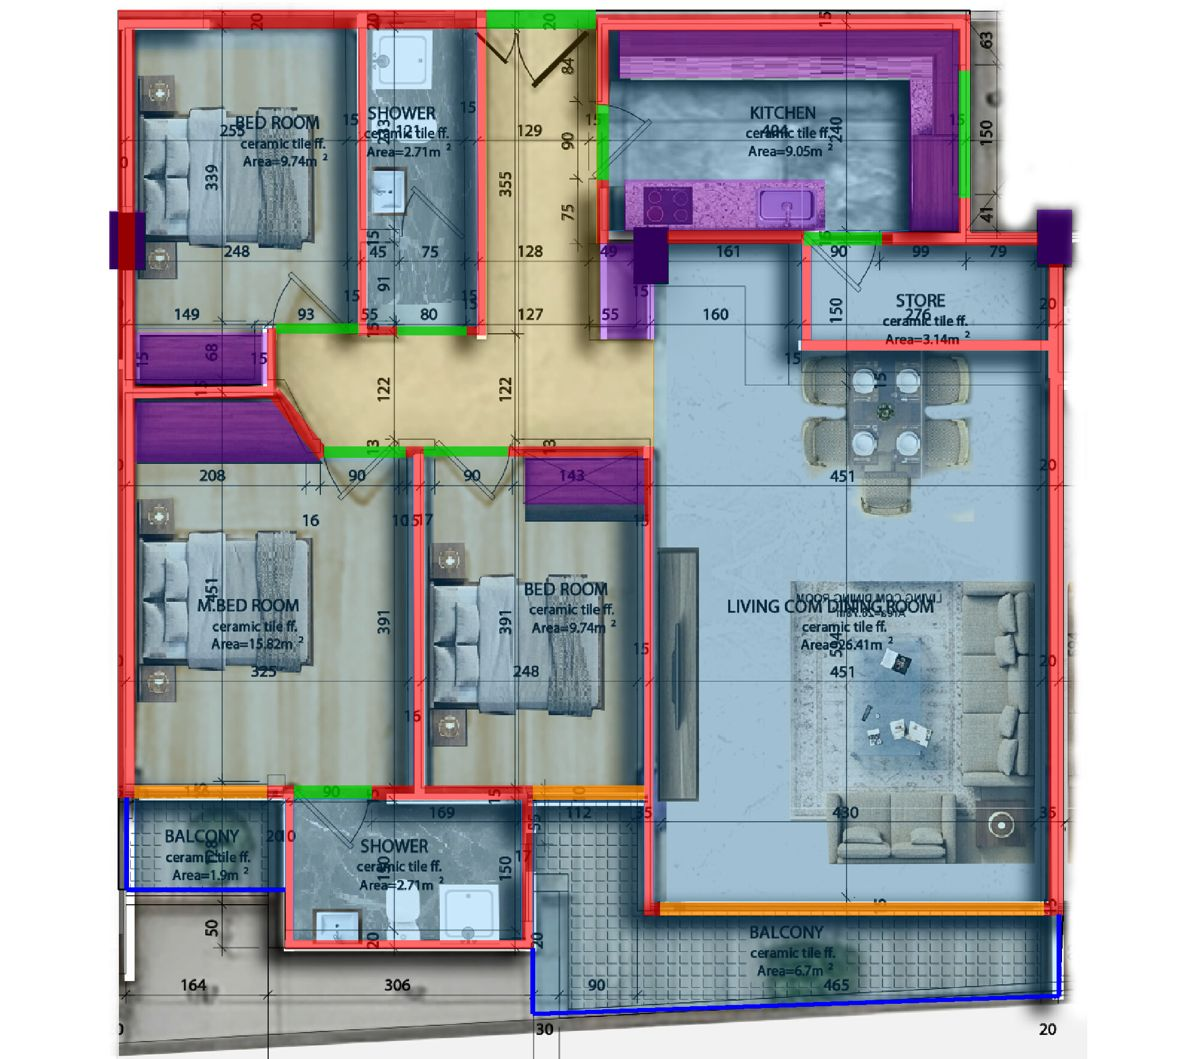
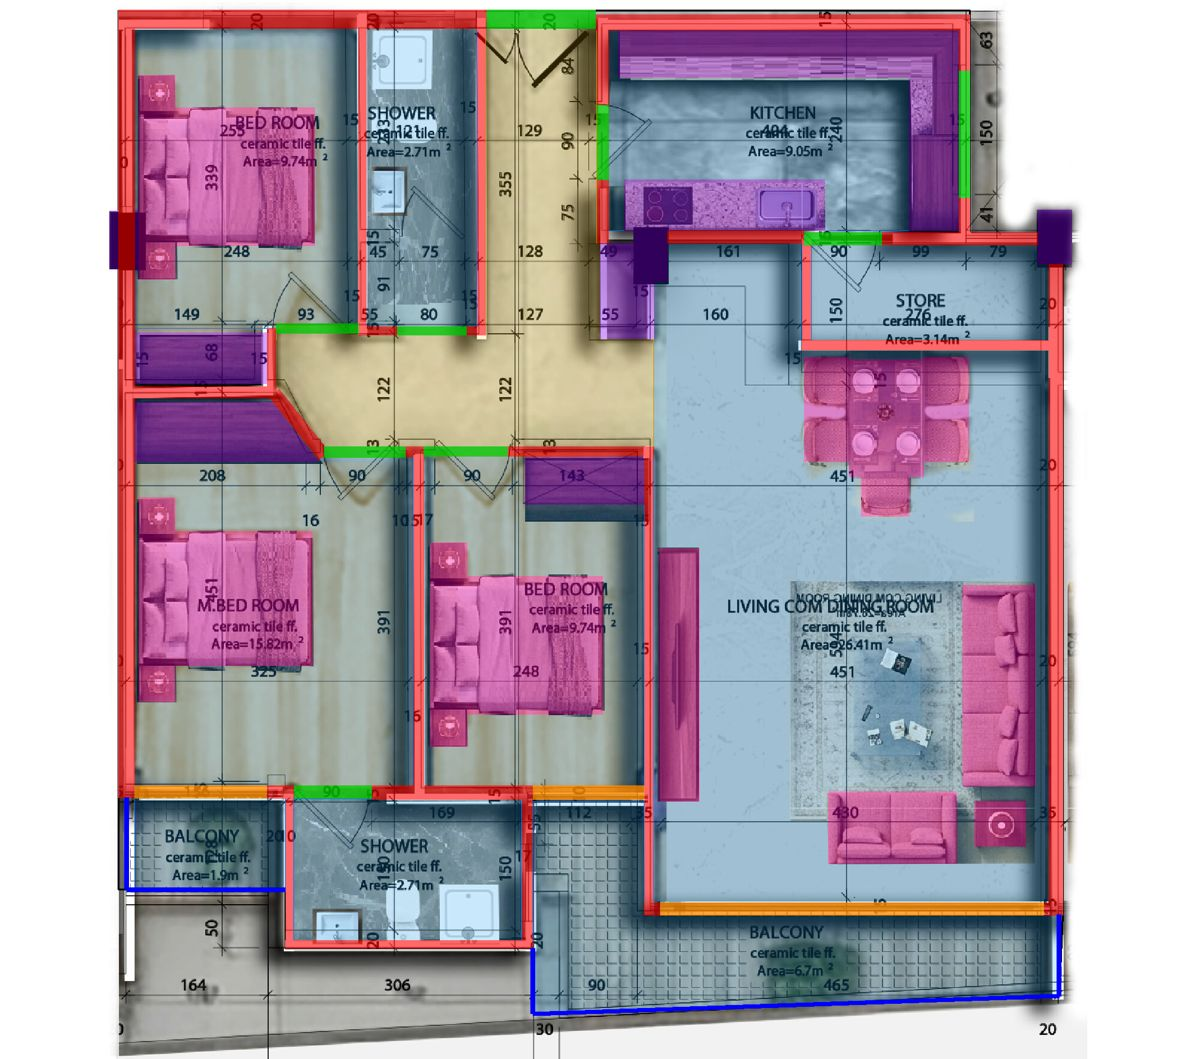
Bring the BL05 dollhouse closer to the reference (DESIGN rev 8.1)
- Design review found it read small, dark and flat next to the client's reference video
- Cut walls at 2.4 m, add a camera fill light and fit the model to the frame
- Trace 18 furniture blocks from the plan so rooms have volume
- Float all room hotspots above the walls and keep the panel actions visible

diff --git a/docs/design/units/trace-bl05.py b/docs/design/units/trace-bl05.py
@@ -90,6 +90,17 @@ solids=[
  {'id':'k-right','kind':'counter','poly':[m(1515,130),m(1598,130),m(1598,385),m(1515,385)],'h':0.9},
  {'id':'k-island','kind':'counter','poly':[m(1040,300),m(1375,300),m(1375,385),m(1040,385)],'h':0.9},
 ]
+# rev 8.1: furniture as low extrusions. The top face reuses the floor texture (planar UV), so the plan's own
+# furniture artwork becomes the top of each block; sides take `side`. Footprints follow the plan drawing.
+def F(id,r,h,side):
+    x0,y0,x1,y1=r; solids.append({'id':id,'kind':'furniture','poly':[m(x0,y0),m(x1,y0),m(x1,y1),m(x0,y1)],'h':h,'side':side})
+F('f-bed1',(232,180,525,410),0.5,'#E8E1D6'); F('f-bed1-ns1',(232,125,292,190),0.55,'#6E4E33'); F('f-bed1-ns2',(232,400,292,465),0.55,'#6E4E33')
+F('f-mbed',(232,885,520,1110),0.5,'#E8E1D6'); F('f-mbed-ns1',(232,830,292,890),0.55,'#6E4E33'); F('f-mbed-ns2',(232,1105,292,1170),0.55,'#6E4E33')
+F('f-bed2',(718,960,1005,1190),0.5,'#E8E1D6'); F('f-bed2-ns1',(718,905,778,965),0.55,'#6E4E33'); F('f-bed2-ns2',(718,1185,778,1245),0.55,'#6E4E33')
+F('f-dining',(1415,600,1540,795),0.75,'#4A3A2C'); F('f-chairs-w',(1340,595,1415,770),0.45,'#B79B74'); F('f-chairs-e',(1540,595,1615,770),0.45,'#B79B74'); F('f-chair-s',(1435,785,1515,860),0.45,'#B79B74')
+F('f-sofa-e',(1605,975,1725,1310),0.8,'#CFC3B1'); F('f-sofa-s',(1380,1320,1595,1440),0.8,'#CFC3B1')
+F('f-tv',(1098,915,1165,1335),0.5,'#5C4636'); F('f-side',(1625,1335,1710,1410),0.55,'#5C4636')
+
 def R(id,name,area,poly,label_px):
     return {'id':id,'name':name,'area':area,'poly':[m(*p) for p in poly],'label':m(*label_px)}
 rooms=[
@@ -115,7 +126,7 @@ data={
  'texture':{'src':'bl05-floor','cropPx':list(crop),
             'plane':{'minX':m(crop[0],crop[1])[0],'minZ':m(crop[0],crop[1])[1],'maxX':m(crop[2],crop[3])[0],'maxZ':m(crop[2],crop[3])[1]},
             'note':'UV = ((x-minX)/(maxX-minX), 1-(z-minZ)/(maxZ-minZ)); the texture is the crop resized to 1024 px wide'},
- 'defaults':{'wallH':2.8,'cutawayH':1.0,'doorHead':2.1,'note':'Heights are not on the plans: 2.8 m storey wall, 2.1 m door head, sills as listed. Illustrative.'},
+ 'defaults':{'wallH':2.8,'modelCutH':2.4,'cutawayH':1.0,'doorHead':2.1,'note':'Heights are not on the plans: 2.8 m storey wall, 2.1 m door head, sills as listed. Illustrative.'},
  'footprint':footprint,'walls':walls,'openings':openings,'railings':railings,'solids':solids,'rooms':rooms,'hall':hall,
 }
 s=json.dumps(data,separators=(',',':'),ensure_ascii=False)
@@ -128,7 +139,7 @@ P=lambda p:(p[0]*SX+OX,p[1]*SY+OY)
 for r in rooms: d.polygon([P(p) for p in r['poly']],fill=(0,160,255,50),outline=(0,120,255,255))
 d.polygon([P(p) for p in hall['poly']],fill=(255,200,0,40),outline=(200,150,0,255))
 d.line([P(p) for p in footprint+[footprint[0]]],fill=(0,0,0,255),width=3)
-for s_ in solids: d.polygon([P(p) for p in s_['poly']],fill=(140,0,255,90))
+for s_ in solids: d.polygon([P(p) for p in s_['poly']],fill=(255,0,200,90) if s_['kind']=='furniture' else (140,0,255,90))
 import math
 def seg(a,b,t,col):
     ax,ay=P(a);bx,by=P(b);dx,dy=bx-ax,by-ay;L=math.hypot(dx,dy) or 1

diff --git a/docs/DESIGN.md b/docs/DESIGN.md
@@ -2,7 +2,7 @@
 
 Owner: `realstate-frontend-design`. Inputs: `docs/BRIEF.md` (facts and the quality bar) and `CLAUDE.md`. If this spec and the brief disagree on a fact, the brief wins. Everything here is direction and can be refined. If you change direction, say so in this file so the reviewer has something to check against.
 
-**Changelog.** 14 Nov 2026, rev 7.1 (round 5 review): the Save-Data/slow opt-in map opens at z17 with no fly; the two-finger hint moves to 70% height; the map glue budget is now 4 KB (§5.6, §10). Rev 8 (BRIEF "3D apartments", 40c474f): new §9.6, the unit dollhouse. When a unit has 3D geometry, its plan lifts into a Three.js cutaway with room hotspots, a slim side panel and a room card with the AI interior slot (placeholder: the room's plan crop). The pilot is BL05: `docs/design/units/bl05.json` plus its floor texture, check overlay and tracing script. Also §9.2 UNIT, §8, §10, §11, §12. Rev 7 (client, BRIEF Update 2026-11-14 and ea0501e): Location becomes a real Leaflet + Esri World Imagery satellite map with a branded pin at 8.9356809, 38.7299505. The SVG diagram is now only the static fallback (no JS, slow or Save-Data until opted in, tile failure), and "Diagram, not to scale." shows only with it. "Get directions" is switched on; there is an optional Esri key, and the attribution is always visible (§5.6 rewritten, §7.3 S13–S14, §8, §10). A "Contact us on Telegram" card shows the two usernames only. The form hands off to Telegram with a prefilled draft, a copy fallback and a persistent "Finish in Telegram" panel (§5.8). Strings with draft Amharic are in §11, open items in §12. Rev 6 (user decision) (user decision): the film becomes the full hero background with a verified shade, grain, a play control and pause/sound controls (§5.1 rewritten, §5.11, §7.2, §7.3 S1, §8, §10). The rev 5 film card is removed. The Story arch now shows the whole tower (§5.3), and the Enquire arch takes the balconies detail. Rev 5 (BRIEF "Update 2026-11-14"): the tower film and its sound toggle (new §5.11, the hero card in §5.1, §7.2, §7.3 S1, §8, §10); building features band (§5.7: three pillars plus four features); 16 floors (§5.1, §5.2, §9.2); BL01 "to be confirmed" off floors 4, 6, 8, 10, 11 (§5.5, §5.8, §9.1–§9.3); the exact Maps pin (§5.6). Each rev 5 change is tagged "rev 5" where it lives, so later client facts can be slotted in one place at a time. Rev 4: §10 HTML budget raised to 40 KB gzipped (inline CSS by choice). Rev 3 (M2 visual QA): S9 dusk is now a static gradient (the fixed veil dimmed the story copy); §9.4 camera framing numbers, ground disc, look-at clamp, glazing colour. 12 Nov 2026, rev 2: applied review findings 1–10 (`.theme-paper`, `--input-border`, no colour tweens, copy fixes, CSS-only hero reveal, server-rendered hotspot hrefs, font subsetting, blocks internal only, pillar and payment copy, mark as `<symbol>`).
+**Changelog.** 14 Nov 2026, rev 8.1 (review of 4e7da27): §9.6.7 accepts impl's deviations 1–5. Hotspots now float above the cut, with leader lines. A camera fill light keeps wall faces cream. The model is cut at 2.4 m with a 60° default elevation, and the fit is 100%. BL05 gains 18 furniture blocks whose tops reuse the plan texture. The panel puts the actions above a 2-column room list. Rev 7.1 (round 5 review): the Save-Data/slow opt-in map opens at z17 with no fly; the two-finger hint moves to 70% height; the map glue budget is now 4 KB (§5.6, §10). Rev 8 (BRIEF "3D apartments", 40c474f): new §9.6, the unit dollhouse. When a unit has 3D geometry, its plan lifts into a Three.js cutaway with room hotspots, a slim side panel and a room card with the AI interior slot (placeholder: the room's plan crop). The pilot is BL05: `docs/design/units/bl05.json` plus its floor texture, check overlay and tracing script. Also §9.2 UNIT, §8, §10, §11, §12. Rev 7 (client, BRIEF Update 2026-11-14 and ea0501e): Location becomes a real Leaflet + Esri World Imagery satellite map with a branded pin at 8.9356809, 38.7299505. The SVG diagram is now only the static fallback (no JS, slow or Save-Data until opted in, tile failure), and "Diagram, not to scale." shows only with it. "Get directions" is switched on; there is an optional Esri key, and the attribution is always visible (§5.6 rewritten, §7.3 S13–S14, §8, §10). A "Contact us on Telegram" card shows the two usernames only. The form hands off to Telegram with a prefilled draft, a copy fallback and a persistent "Finish in Telegram" panel (§5.8). Strings with draft Amharic are in §11, open items in §12. Rev 6 (user decision) (user decision): the film becomes the full hero background with a verified shade, grain, a play control and pause/sound controls (§5.1 rewritten, §5.11, §7.2, §7.3 S1, §8, §10). The rev 5 film card is removed. The Story arch now shows the whole tower (§5.3), and the Enquire arch takes the balconies detail. Rev 5 (BRIEF "Update 2026-11-14"): the tower film and its sound toggle (new §5.11, the hero card in §5.1, §7.2, §7.3 S1, §8, §10); building features band (§5.7: three pillars plus four features); 16 floors (§5.1, §5.2, §9.2); BL01 "to be confirmed" off floors 4, 6, 8, 10, 11 (§5.5, §5.8, §9.1–§9.3); the exact Maps pin (§5.6). Each rev 5 change is tagged "rev 5" where it lives, so later client facts can be slotted in one place at a time. Rev 4: §10 HTML budget raised to 40 KB gzipped (inline CSS by choice). Rev 3 (M2 visual QA): S9 dusk is now a static gradient (the fixed veil dimmed the story copy); §9.4 camera framing numbers, ground disc, look-at clamp, glazing colour. 12 Nov 2026, rev 2: applied review findings 1–10 (`.theme-paper`, `--input-border`, no colour tweens, copy fixes, CSS-only hero reveal, server-rendered hotspot hrefs, font subsetting, blocks internal only, pillar and payment copy, mark as `<symbol>`).
 
 **Design assets this spec relies on (all in the repo):**
 
@@ -1159,7 +1159,7 @@ BRIEF "3D apartments" (approved 14 Nov 2026). The reference is the user's video,
 
 | File | What |
 |---|---|
-| `docs/design/units/bl05.json` | The geometry, 9 KB raw and 2.7 KB gzipped (budget 20 KB). Impl copies it to `src/data/units3d/bl05.json` and imports it dynamically. |
+| `docs/design/units/bl05.json` | The geometry, 11 KB raw and 3.2 KB gzipped with the rev 8.1 furniture (budget 20 KB). Impl copies it to `src/data/units3d/bl05.json` and imports it dynamically. |
 | `docs/design/units/bl05-floor.webp` | The floor texture: the plan crop px (180, 0)–(1800, 1765) at 1024 × 1116, 105 KB. Impl makes the AVIF (target ≤ 90 KB) with sharp at build time and keeps this WebP as the fallback. **v1 still shows the plan's dimension lines and labels.** A cleaned v2 (lines and labels painted out, furniture kept) is a design follow-up and changes only this file. |
 | `docs/design/units/bl05-check.jpg` | Every wall, opening, solid and room from the JSON drawn over the plan, for review. Red: walls. Green: openings drawn on the plan. Orange: openings inferred. Blue: railings. Purple: solids. Light blue: rooms. Yellow: hall. |
 | `docs/design/units/trace-bl05.py` | The tracing script, which writes both the JSON and the check image. Copy it for BL01–BL09: change the px rectangles, rerun, and compare against the check image. |
@@ -1311,6 +1311,40 @@ The generator isn't chosen yet, so the slot is designed now and filled later.
 | U7 | Desktop layout | stage cols 1–5 → 1–7 (Flip) | 0.6 / power3.inOut |
 
 
+#### 9.6.7 Rev 8.1: implementation review of 4e7da27 and visual fixes
+
+Design eyeballed the dollhouse on :4321 (Explore → floor 7 → BL05 → 3D). This was headless Chrome with `navigator.connection` overridden to 4g, at 1366 × 900 and 390 × 844, at three orbit angles.
+
+**Impl's six deviations:**
+
+1. **Confirmed:** one merged wall mesh, with rise and cutaway done in the shader, and the cutaway clamping vertices to 1.0 m. The look matches the spec, with fewer draw calls.
+2. **Confirmed:** shadows update live during the lift, then bake.
+3. **Confirmed, and it corrects the spec:** intensities 3.2 / 2.2 are right for r187's physical light units. `shadow.radius` only applies to `PCFShadowMap` (and VSM), not `PCFSoftShadowMap`, so impl's `PCFShadowMap` with radius 4 is right. §9.6.3 is to be read that way.
+4. **Confirmed:** orientation matches the key plan (it replaces the "azimuth −90° = sheet orientation" wording in U1).
+5. **Confirmed:** 3D strings come from a lazy static JSON, to protect /am's HTML budget.
+6. **Replaced** by floating hotspots, below. Four of ten is too few for "close to the video".
+
+**What fell short of the reference, and the fixes:**
+
+| # | Seen | Fix |
+|---|---|---|
+| A | The camera-facing sides of the full-height back walls render as large flat taupe planes (about `#8C867F`), because they face away from the fixed sun. They hide about half of each bedroom and read as lids, not walls. The reference's wall faces are bright cream. | Add a **camera fill light**: a `DirectionalLight` `#FFF6EA`, no shadows, parented to the camera and offset 25° left and 20° up from the view direction. Tune its intensity (start at 1.6) until camera-facing wall faces read between sand-100 `#F3ECE2` and `#D9CFC0` on a screenshot, never darker. The sun stays fixed, so the shadows still bake once. |
+| B | Interior walls at 2.8 m hide too much floor at 56°. | **The model is cut at 2.4 m** (`defaults.modelCutH`), like an architectural section model, which is what the reference looks like. This applies to every full-height element: walls, columns, shaft, and opening headers (door headers run 2.1–2.4 m, glazing heads clamp to 2.4 m). The default elevation is **60°**, and dragging can move it between **52° and 68°**. The perimeter cutaway stays at 1.0 m. |
+| C | The model fills only about 65% of the stage's shorter side. The bounding circle is loose, because BL05's corners sit well inside it. | Fit the circle to **100%** of the shorter side, not 88%. The model then fills about 80% and still never pops while orbiting. |
+| D | The floor is flat furniture artwork, while the reference has furniture with volume, which is most of what makes it read as real. | **Furniture blocks (new data, BL05 delivered):** `solids[]` with `kind: "furniture"`, `h` and `side`. There are 18 blocks: 3 beds at 0.5 m, 6 nightstands at 0.55 m, the dining table at 0.75 m, 3 chair groups at 0.45 m, 2 sofas at 0.8 m, the TV unit at 0.5 m and a side table at 0.55 m. They are traced over the plan's own furniture (pink in `bl05-check.jpg`). Details below the table. |
+| E | Desktop panel: the 10-row room list pushes **Request pricing / Book a visit** below the panel's bottom edge at 1366 × 900. The list was also clipped mid-row. | The new panel order is: toggle → eyebrow → type → areas → **actions** → rooms. The actions must be visible without scrolling at 1366 × 768 and larger. At ≥ 1024 the rooms list is **2 columns** of 40 px rows (name left, m² right, tabular). On mobile it stays 1 column. The panel never clips its content; if it is taller than the stage, it grows. |
+| F | Only about 4 of 10 hotspots are visible at the default angle. Anchors at y = 0.05 m are hidden by walls. | **Floating hotspots:** anchor each dot at **y = 2.75 m** (0.35 m above the cut), over the room's `label` point. A 1 px gold-500 leader line at 0.7 opacity runs down to the floor point (y = 0.05). Both ends are projected every rendered frame, and the line is a 1 px-wide absolutely positioned `div` rotated with `transform`, so there is no canvas work. **No occlusion raycast.** All ten hotspots stay visible and focusable. If two dots come within 28 px of each other on screen, only the one nearer the camera shows, and the other goes `inert` until they separate. The panel's room list stays the full accessible path. |
+
+**Furniture block details (fix D):**
+- Each block's **top face uses the floor material** with the same planar UVs, so the plan's furniture artwork becomes the lid of its own block.
+- The sides use `side` with `MeshLambertMaterial`.
+- Furniture casts and receives shadows.
+- In the lift (U1), furniture rises after the walls (delay +0.45 s, 0.5 s, `power3.out`).
+- Budget: about 220 extra triangles, merged into one geometry with two material groups: lids and sides.
+- Furniture is **illustrative**. It follows the plan's furniture drawing, which is itself a staging suggestion. The "Renders and plans are illustrative" line already under the panel covers it.
+
+Everything else in the scene matches the spec: the lift, cutaway, orbit, ground shadow, plinth, glass railings, warm palette and texture, as well as the mobile layout.
+
 ---
 
 ## 10. Performance budget
@@ -1334,7 +1368,7 @@ The generator isn't chosen yet, so the slot is designed now and filled later.
 | Map glue JS (rev 7) | ≤ 4 KB (raised from 3 KB in rev 7.1; the map chunk measured 52.2 KB) | Loader, entrance, custom controls, two-finger hint, failure fallback. |
 | Satellite tiles, first view (rev 7) | ≤ 1 MB (about 22 KB per 256 px JPEG, checked) | z15 view plus z17 view, at 1×. `detectRetina: false`, `keepBuffer: 1`, and `updateWhenZooming: false` keep z16 out. Reduced motion fetches z17 only. |
 | Unit 3D code (rev 8) | ≤ 12 KB gzip | `unit3d.ts` plus `mergeGeometries`. Reuses the tier 2 `three` chunk and renderer. Loaded on the first UNIT entry with `has3d`; prefetched on idle from FLOOR. Zero bytes on tiers 0 and 1. |
-| Unit geometry (rev 8) | ≤ 20 KB raw per unit (BL05: 9 KB raw, 2.7 KB gzip) | JSON, dynamic import. |
+| Unit geometry (rev 8) | ≤ 20 KB raw per unit (BL05: 11 KB raw, 3.2 KB gzip) | JSON, dynamic import. |
 | Unit floor texture (rev 8) | AVIF ≤ 90 KB, WebP ≤ 110 KB (BL05 WebP: 105 KB), 1024 px wide | Loaded with the unit. Never on first load, so no LCP impact. |
 | Room images (rev 8, later) | AVIF ≤ 140 KB each, 1600 × 1067 | Only on room open, and only `approved: true`. |
 | Film music (rev 5) | ≤ 260 KB (Opus WebM 252 KB, AAC M4A fallback 258 KB) | Zero bytes until the first press of the sound toggle. Only one of the two files is ever fetched. |
